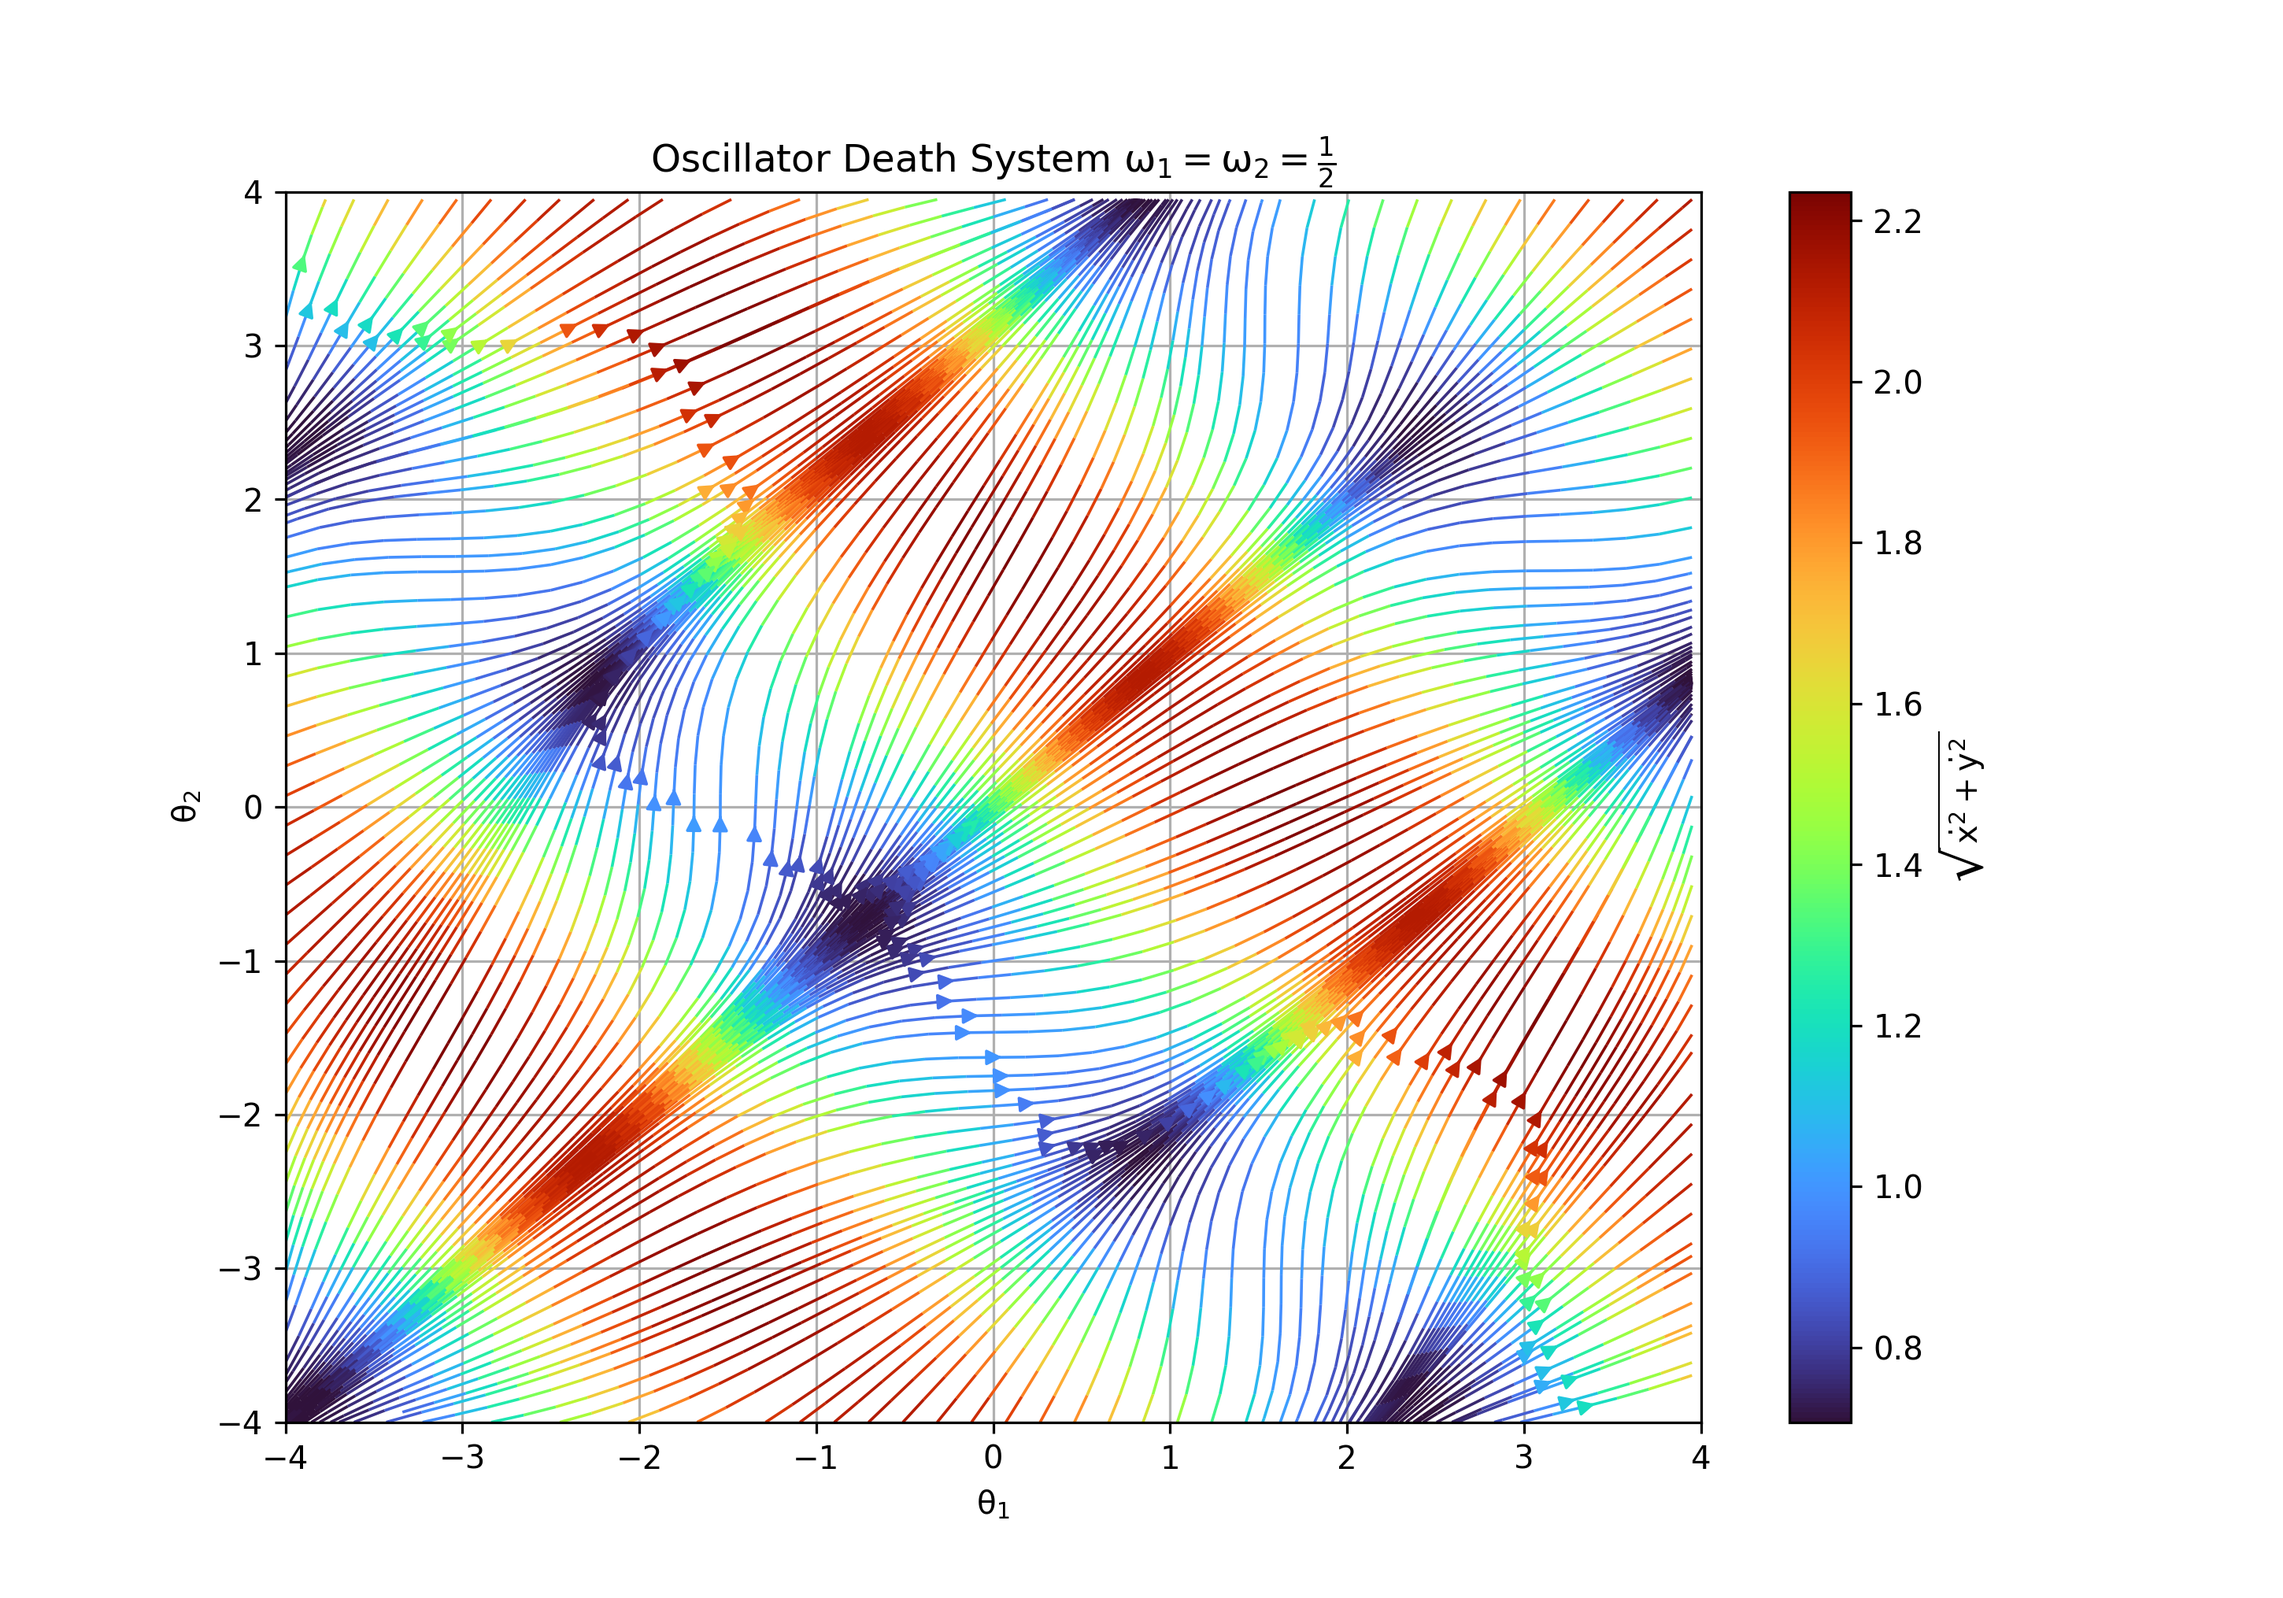
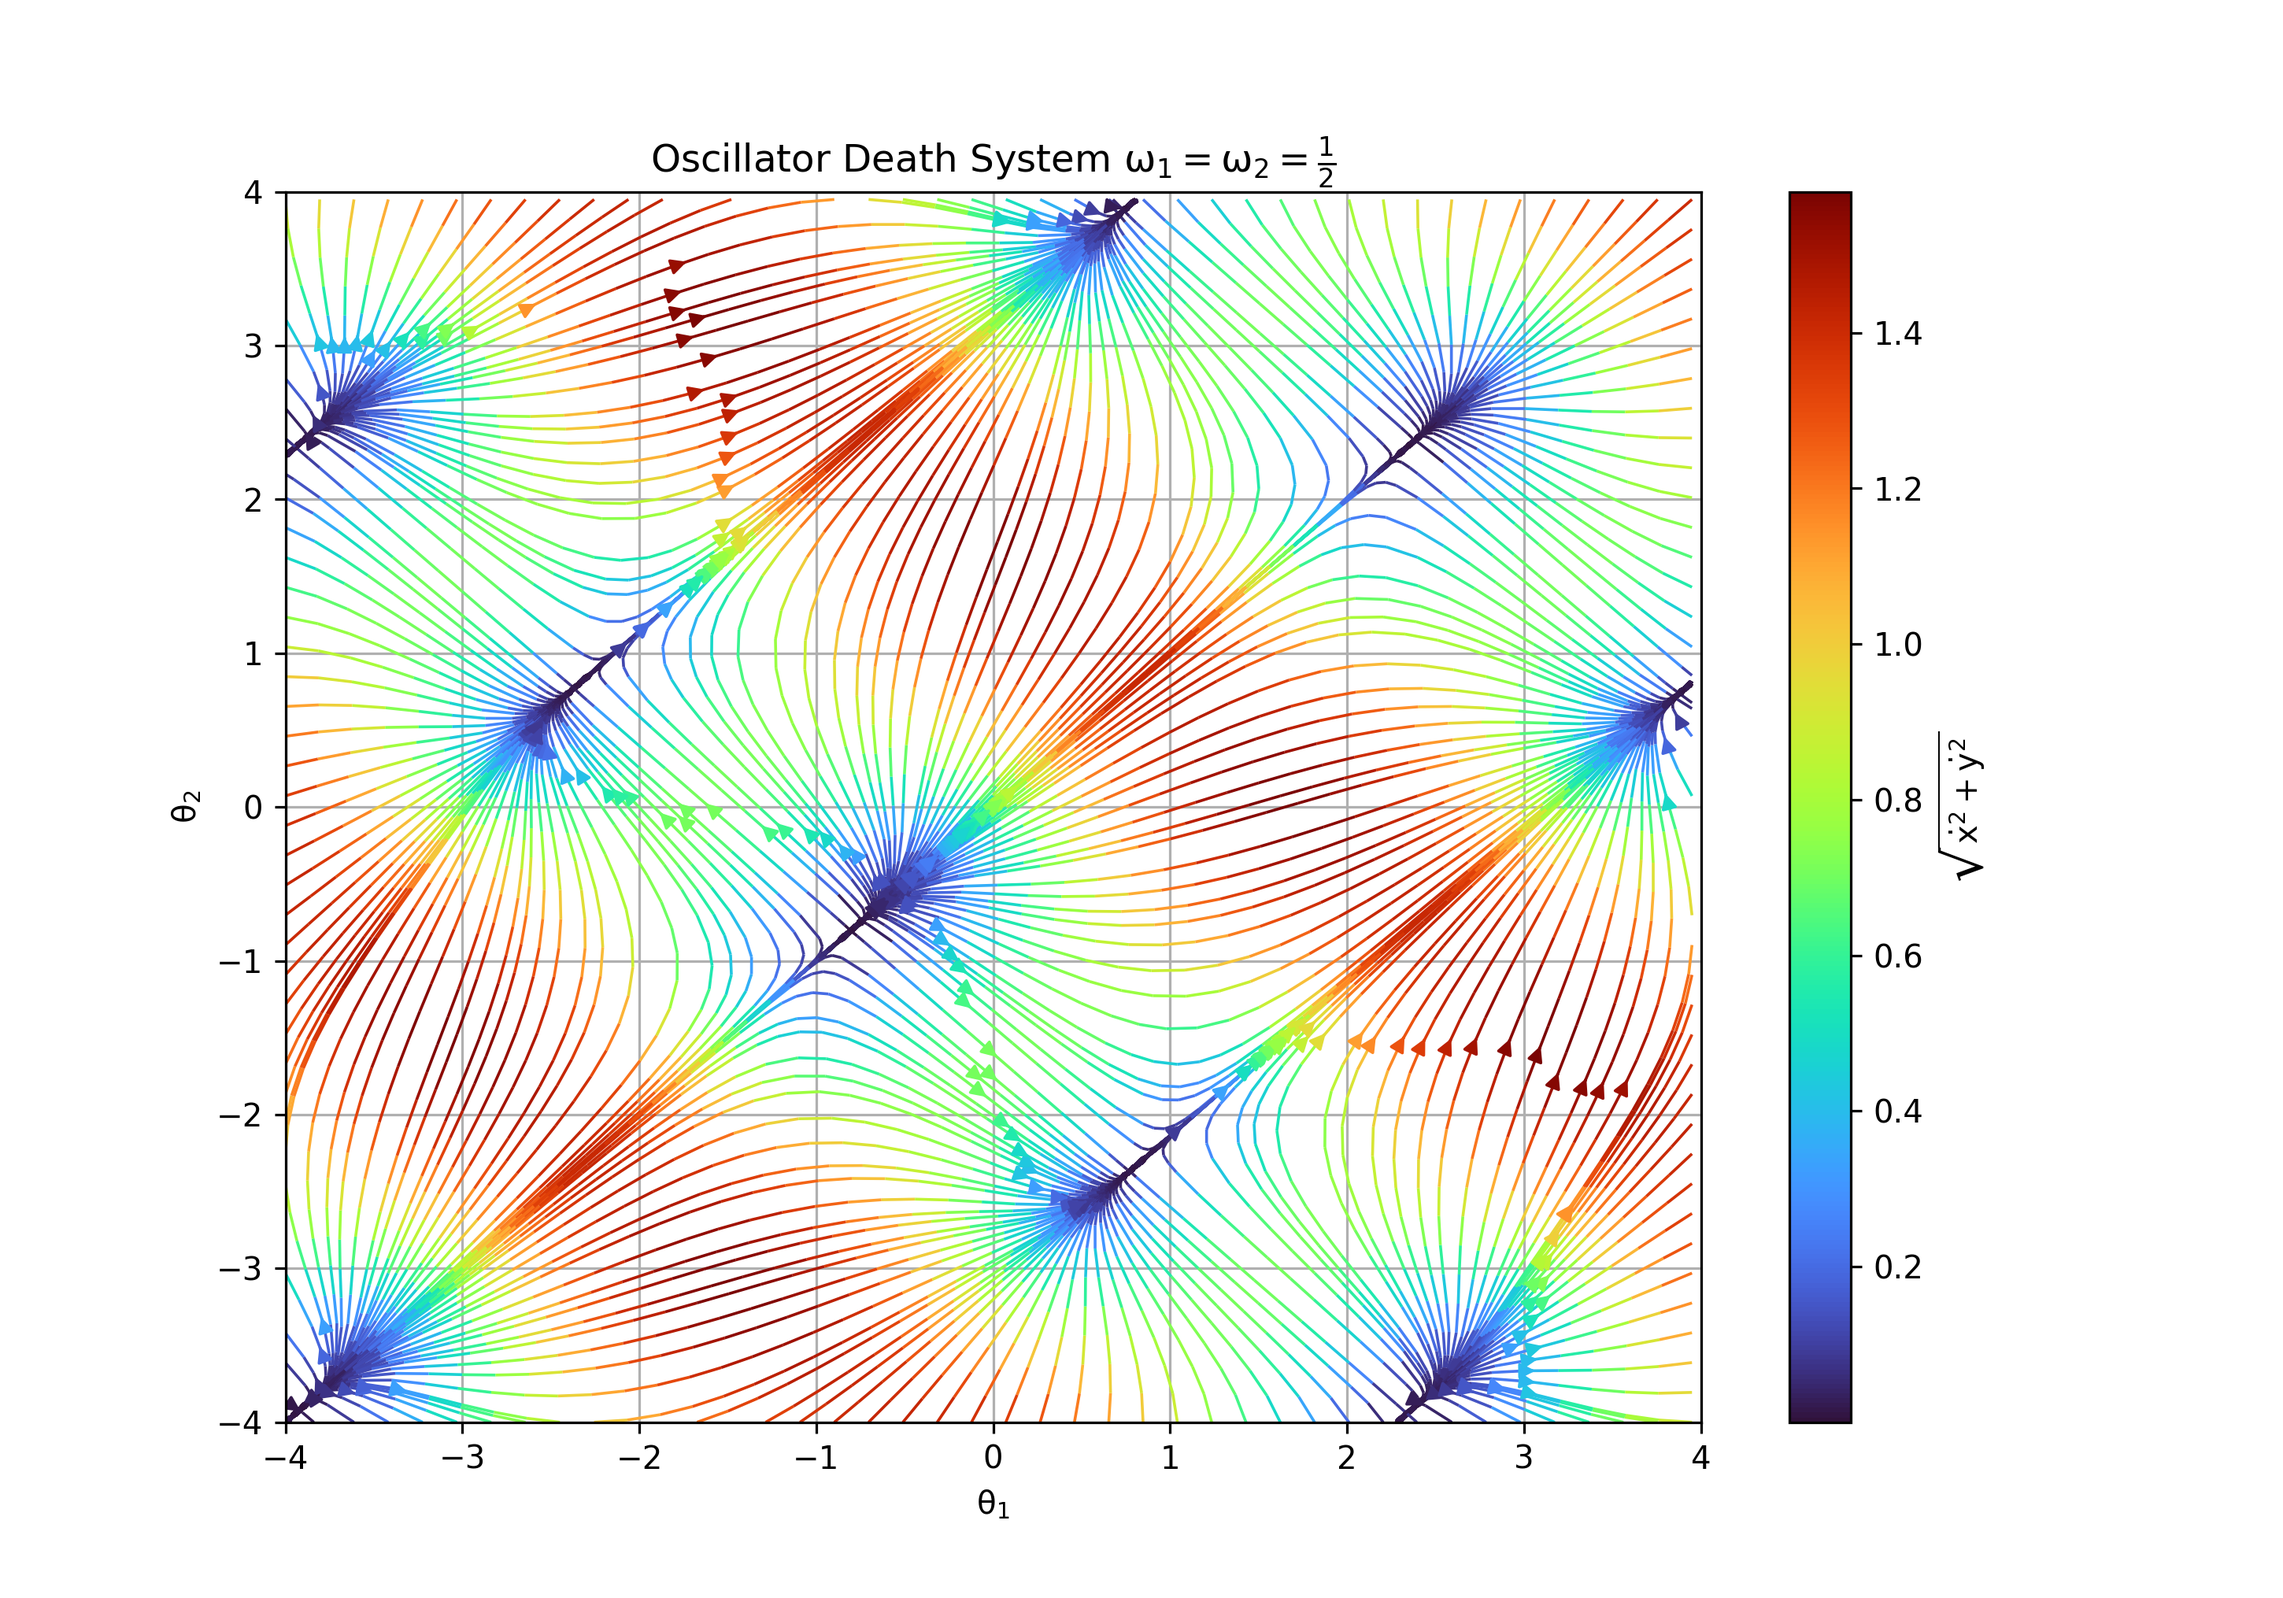
HW10 grind

Changed region(s): [[0.1241, 0.1241, 0.7448, 0.9], [0.8069, 0.5897, 0.8379, 0.6207]]

diff --git a/hw/submissions/hw10/plot_p3-full.py b/hw/submissions/hw10/plot_p3-full.py
@@ -26,7 +26,7 @@ Yarr = np.arange(start=ymin,stop=ymax,step=res)
 
 X, Y = np.meshgrid(Xarr,Yarr)
 
-alphs = [0.1,2]
+alphs = [0.1,1]
 Ivals = [0.,0.5,1.,1.5,2]
 
 fig, ax = plt.subplots(len(Ivals), len(alphs), figsize=(6.6,10))
@@ -48,7 +48,7 @@ for i, alpha in enumerate(alphs):
             if alpha==0.1:
                 ax[j,i].set_title(r'$\alpha=1/10$')
             else:
-                ax[j,i].set_title(r'$\alpha=2$')
+                ax[j,i].set_title(r'$\alpha=1$')
         if i == 0:
             ax[j,i].set_ylabel(r'$\dot \phi$')
         if I == 2.:
@@ -62,6 +62,6 @@ fig.suptitle(r'Driven pendulum: Comparison of Regimes')
 fig.tight_layout()
 #plt.show()
 
-plt.savefig('phase_portrait_all_3.png', dpi=320.)
+plt.savefig('phase_portrait_all_3_a1.png', dpi=320.)
 plt.close()
 

diff --git a/hw/submissions/hw10/plot_p4.py b/hw/submissions/hw10/plot_p4.py
@@ -29,7 +29,7 @@ X, Y = np.meshgrid(Xarr,Yarr)
 
 
 
-dX, dY = sys(X,Y, w1=1.,w2=1.)
+dX, dY = sys(X,Y, w1=0.5,w2=1.)
 mag = np.sqrt(dX**2. + dY**2.)
 
 
@@ -53,10 +53,10 @@ ax.set_xlim(xmin,xmax)
 ax.set_ylim(ymin,ymax)
 ax.grid()
 
-plt.title(r'Oscillator Death System $\omega_1=\omega_2=\frac{1}{2}$')
+plt.title(r'Oscillator Death System $\omega_1=\frac{1}{2},\quad \omega_2=1$')
 
 #plt.show()
 
-plt.savefig('phase_portrait_p4_p5p5_zoomed.png', dpi=290.)
+plt.savefig('phase_portrait_p4_p51_zoomed.png', dpi=290.)
 plt.close()
 
